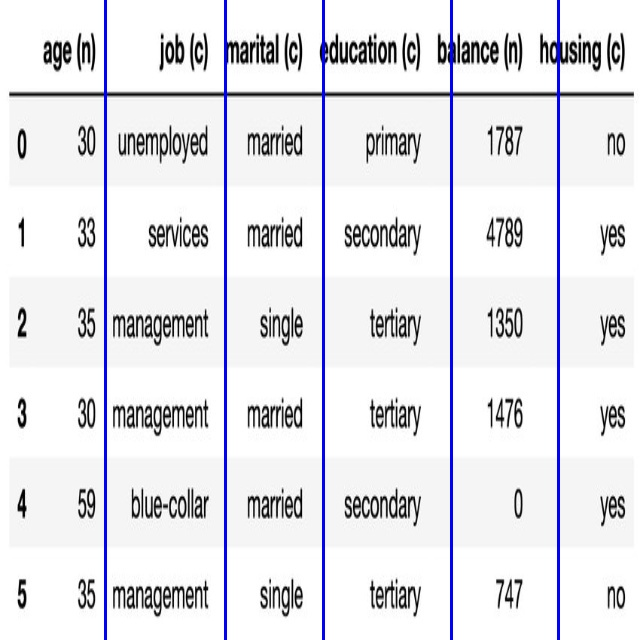
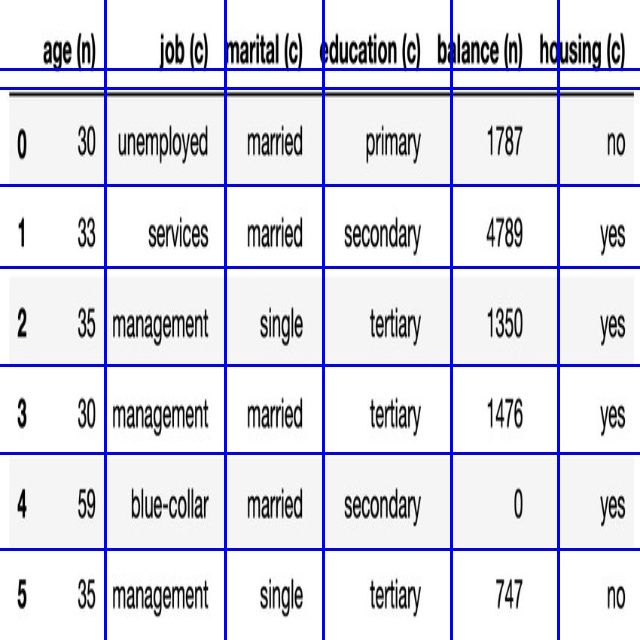
test

diff --git a/column_after_process.py b/column_after_process.py
@@ -5,7 +5,7 @@ import math
 import matplotlib.image as mpimg
 
 
-image_path = "D:\ENTC_7\FYP\FYP\eval_output\\column\image5.jpg"
+image_path = "D:\ENTC_7\FYP\FYP\eval_output\\column\image4.jpg"
 name = image_path.split("\\")[-1]
 
 
@@ -165,7 +165,7 @@ vertical_positions=column_indexes(mid)
 #show_imag(image_path ,  vertical_positions )
 #show_plot_mid(mid)
 
-image = cv2.imread('D:\ENTC_7\FYP\FYP\eval_input\\'+name)
+image = cv2.imread('D:\ENTC_7\FYP\FYP\outputs\\'+name)
 for k in vertical_positions:
     cv2.line(image, (k, 0), (k, image.shape[1]), (255, 0, 0), 2)
 cv2.imwrite('D:\ENTC_7\FYP\FYP\outputs\\'+name,image)

diff --git a/after_process.py b/after_process.py
@@ -260,7 +260,6 @@ def ocr_cropping(x1,x2,y1,y2,original_image):
     for idx in range(len(result)):
         res = result[idx]
         for line in res:
-            print(line)
             row.append(list(line[-1])[0])
 
     # Remove the temporary image file

diff --git a/row_after_process.py b/row_after_process.py
@@ -5,7 +5,7 @@ import math
 import matplotlib.image as mpimg
 
 
-image_path = "D:\ENTC_7\FYP\FYP\eval_output\\row\image0.jpg"
+image_path = "D:\ENTC_7\FYP\FYP\eval_output\\row\image4.jpg"
 name = image_path.split("\\")[-1]
 
 # Load the image
